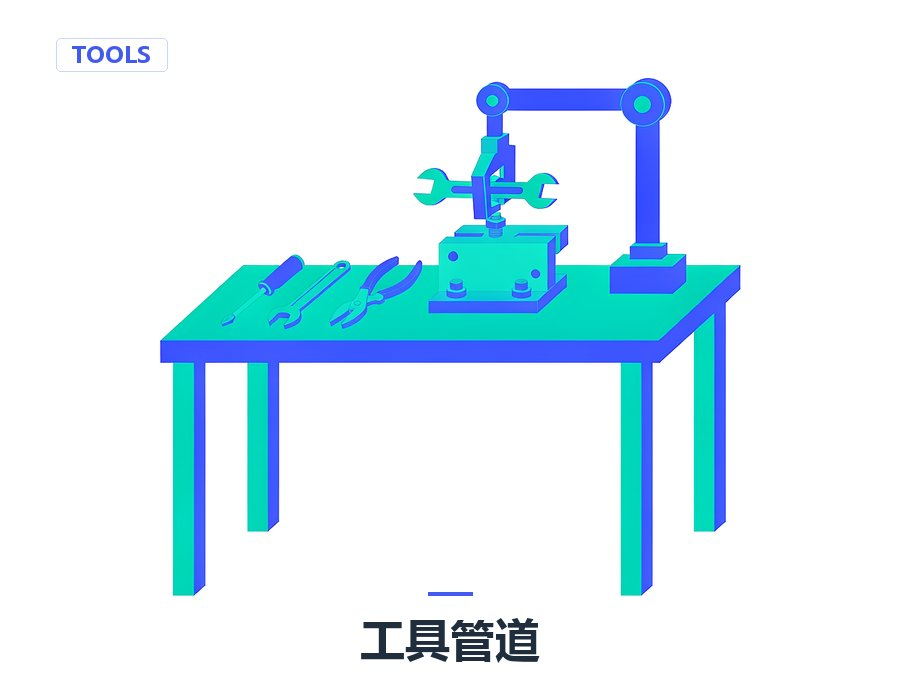
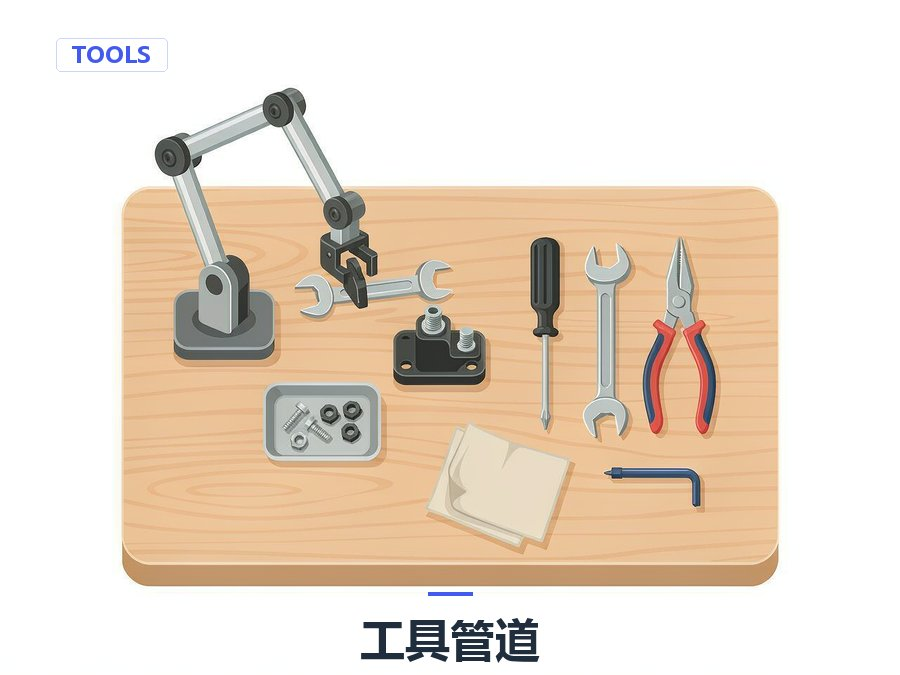
chore: 重配全部混元封面（自然配色 + 留白达标）

diff --git a/tools/hunyuan-covers.py b/tools/hunyuan-covers.py
@@ -94,9 +94,9 @@ TEXTS = {
 
 PROMPTS = {
     # ── 算法笔记 ──
-    'cover-binary':    'abstract illustration of a magnifying glass hovering above a sorted row of dots with a highlighted midpoint, precision binary search concept, ' + STYLE,
-    'cover-kmp':       'abstract illustration of a chain of beads being compared by a sliding pointer that never moves backward, string matching concept, ' + STYLE,
-    'cover-quicksort': 'abstract illustration of columns of blocks splitting around a highlighted pivot with sweeping arrows on both sides, quicksort partition concept, ' + STYLE,
+    'cover-binary':    'a minimal simple icon of a magnifying glass, binary search concept, a tiny subject centered, pure white background, ' + STYLE,
+    'cover-kmp':       'a minimal simple icon of a chain of beads, string matching concept, a tiny subject centered with huge empty margins on all four sides, plain background, ' + STYLE,
+    'cover-quicksort': 'a minimal simple icon of a small column of blocks, quicksort concept, a tiny subject centered with huge empty margins on all four sides, plain background, ' + STYLE,
     # ── 项目拆解 ──
     'cover-cipherlens':'flat vector illustration of a magnifying glass examining a padlock surrounded by cipher symbols and code brackets, security analysis concept, pure white background, bright blue #425AEF and cyan #00c4b6 only, minimal flat shapes, no 3d, no photorealistic, no beige or warm tones, no text, no letters, no watermark',
     # ── AI 笔记 ──
@@ -111,12 +111,12 @@ PROMPTS = {
     'super-agent-designs':    'flat vector illustration of a central glowing hub dispatching tasks along thin arrows to many small worker nodes arranged in two layers, orchestration concept, pure white background, bright blue #425AEF and cyan #00c4b6 only, minimal flat shapes, no 3d, no photorealistic, no beige or warm tones, no text, no letters, no watermark',
     # ── 默认封面（frontmatter 没写 cover 时随机用）──
     'cover-code':   'flat vector illustration of a pair of curly code brackets in solid blue with a small cyan terminal window below, general tech aesthetic, pure white background, bright blue #425AEF and cyan #00c4b6 only, minimal flat shapes, no 3d, no photorealistic, no beige or warm tones, no text, no letters, no watermark',
-    'cover-notes':  'abstract illustration of floating notebook pages with abstract diagram marks and code brackets, notes concept, ' + STYLE,
-    'cover-tools':  'abstract illustration of a wrench, gears and tool icons arranged in a neat grid, tooling concept, ' + STYLE,
+    'cover-notes':  'a minimal simple icon of a small notebook, notes concept, a tiny subject centered, pure white background, ' + STYLE,
+    'cover-tools':  'a minimal simple icon of a small wrench, tooling concept, a tiny subject centered, pure white background, ' + STYLE,
     'pi-agent-loop':    'flat vector illustration of a smooth closed circular track with a small cart rolling along it in a continuous loop, three simple machines placed along the track, iterative loop concept, ' + STYLE,
     'pi-tool-pipeline':    'flat vector illustration of a neat workbench with a simple robotic arm holding a wrench above a small workpiece, a few hand tools (screwdriver, wrench, pliers) neatly arranged beside it, tool use concept, ' + STYLE,
-    'pi-model-layer':    'flat vector illustration of a translator figure at a wooden desk working on a single document, a central hub machine with four small output cards arranged around it, each card holding a different document format, multi-format translation concept, ' + STYLE,
-    'pi-message-system':    'flat vector illustration of a single open envelope floating in the center of a plain background, slightly open to reveal a richly detailed inner document with colorful stamps and handwritten notes, a single centered subject with generous empty space around all edges, ' + STYLE,
+    'pi-model-layer':    'minimal composition, a single small subject centered with very large empty margins on all four sides, a translator figure at a small desk working on one document, multi-format translation concept, ' + STYLE,
+    'pi-message-system':    'a minimal simple icon of a small envelope, message concept, a tiny subject centered with huge empty margins on all four sides, plain background, ' + STYLE,
 }
 
 
